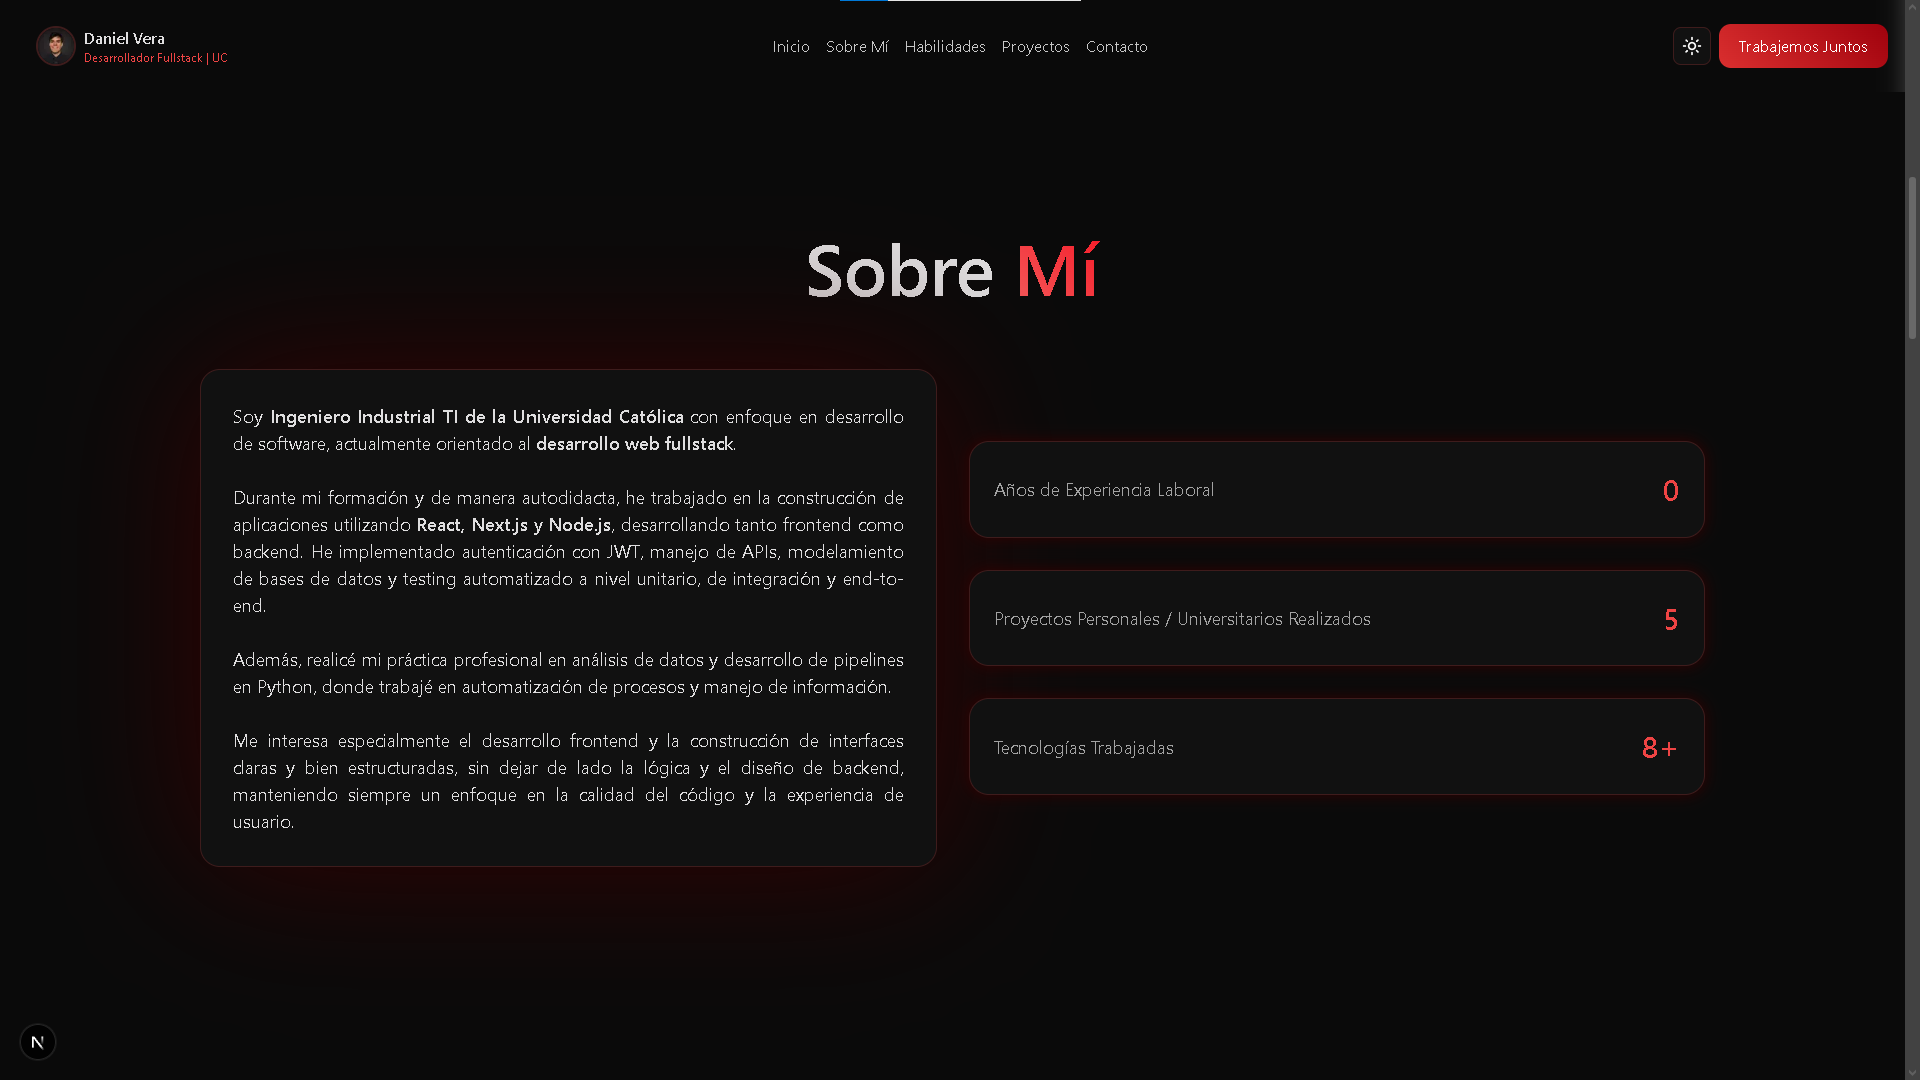
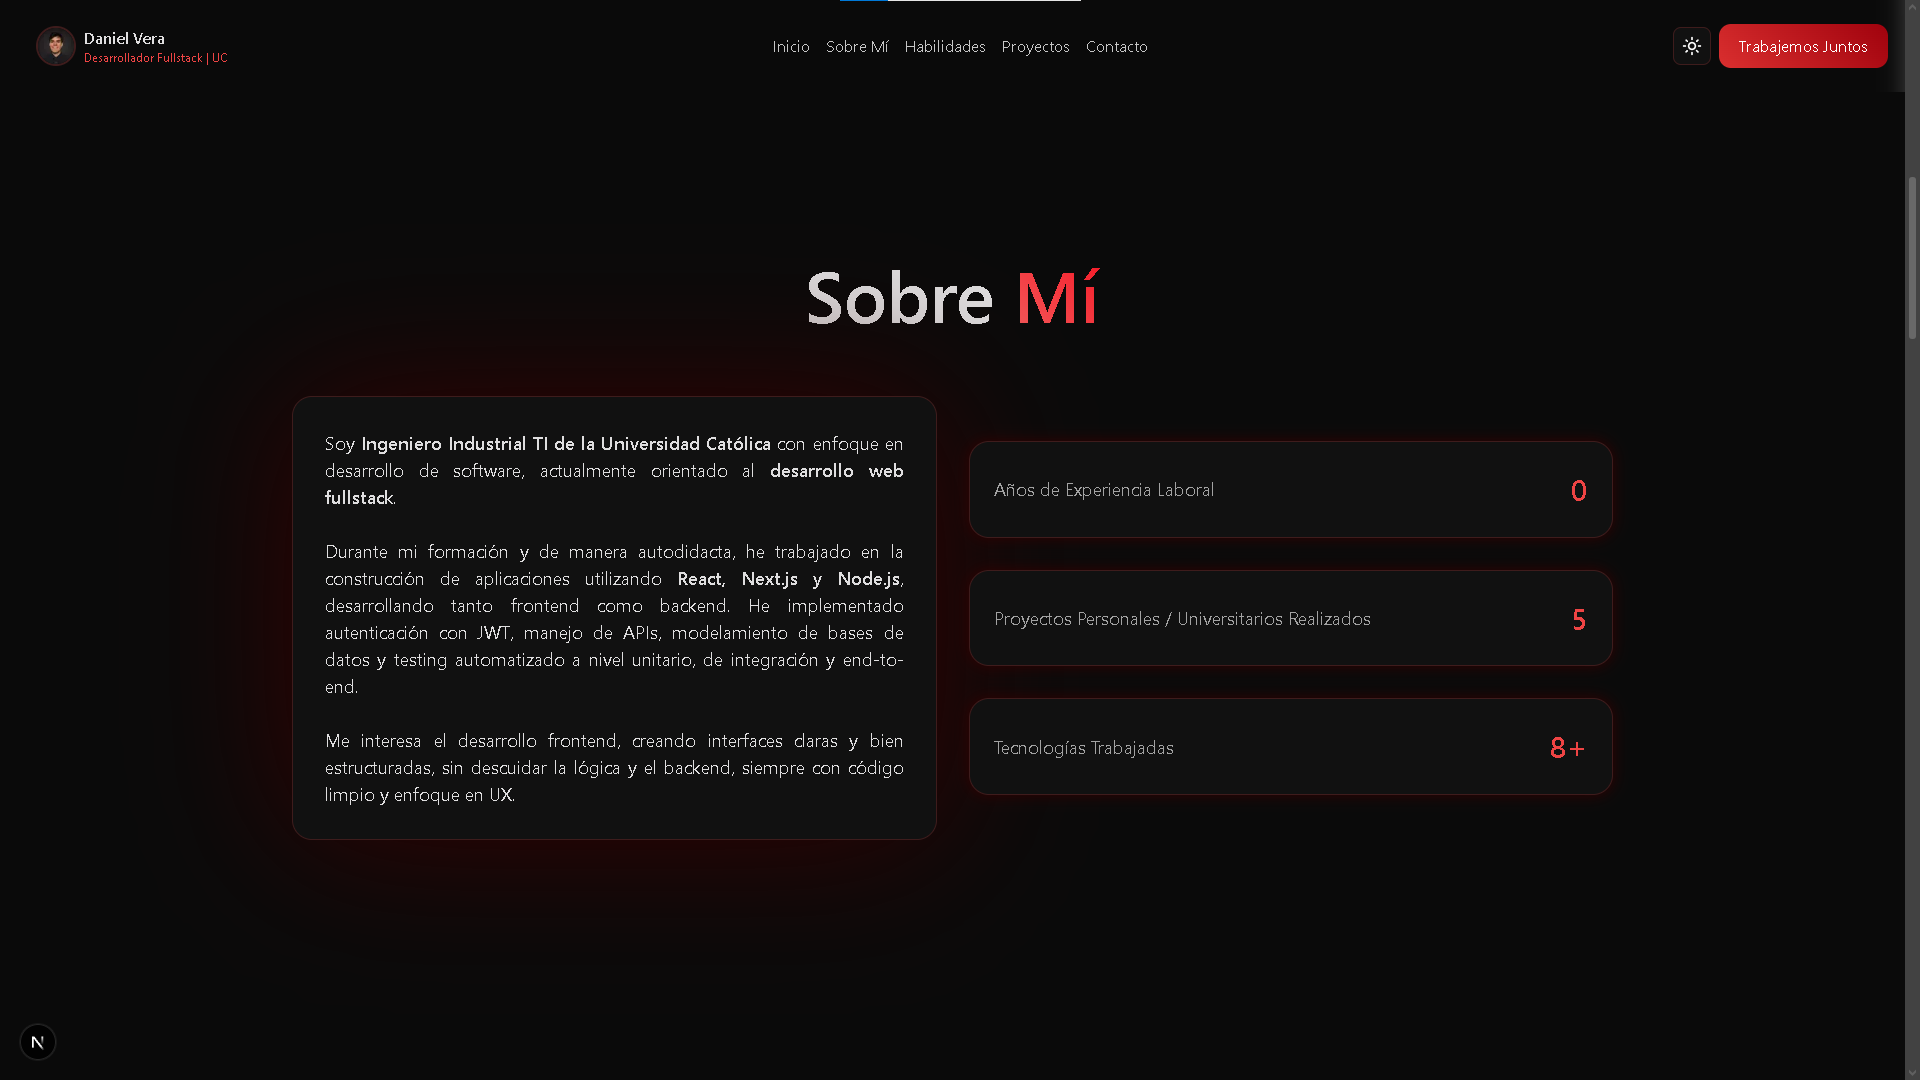
refactor(about): Se borra texto de about y se cambia la imagen en readme

diff --git a/src/components/aboutSection/about.tsx b/src/components/aboutSection/about.tsx
@@ -22,7 +22,7 @@ export default function About() {
       </motion.h2>
       <div className="flex gap-8 justify-center flex-col md:flex-row">
         <motion.div
-          className="xl:w-5/10 2xl:w-4/10 md:w-6/10 about-description text-lg rounded-[20px] p-8 text-justify leading-normal"
+          className="xl:w-5/10 2xl:w-7/20 md:w-6/10 about-description text-lg rounded-[20px] p-8 text-justify leading-normal"
           initial={{ opacity: 0, x: -50 }}
           whileInView={{ opacity: 1, x: 0 }}
           viewport={{ once: true }}
@@ -47,13 +47,12 @@ export default function About() {
           </p>
           <br />
           <p>
-            Me interesa especialmente el desarrollo frontend y la construcción de interfaces claras
-            y bien estructuradas, sin dejar de lado la lógica y el diseño de backend, manteniendo
-            siempre un enfoque en la calidad del código y la experiencia de usuario.
+            Me interesa el desarrollo frontend, creando interfaces claras y bien estructuradas, sin
+            descuidar la lógica y el backend, siempre con código limpio y enfoque en UX.
           </p>
         </motion.div>
         <motion.div
-          className="xl:w-5/10 2xl:w-4/10 md:w-4/10 flex flex-col gap-8 justify-center"
+          className="xl:w-5/10 2xl:w-7/20 md:w-4/10 flex flex-col gap-8 justify-center"
           initial={{ opacity: 0, x: 50 }}
           whileInView={{ opacity: 1, x: 0 }}
           viewport={{ once: true }}
